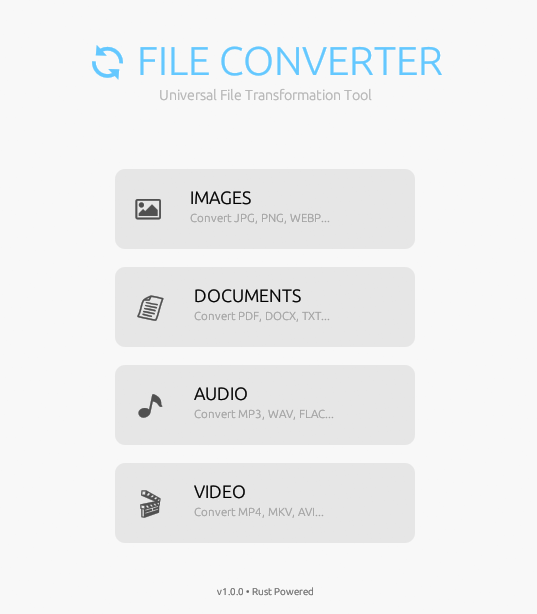
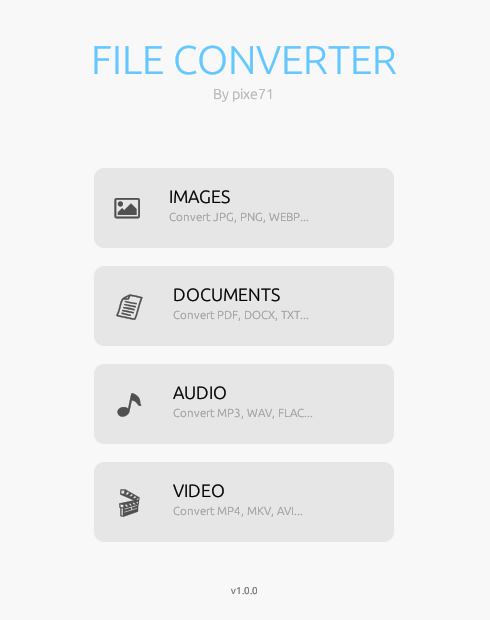
update readme + screen

diff --git a/README.md b/README.md
@@ -1,13 +1,12 @@
 # Rust File Converter
 
-<img src="icon.png" align="right" width="100px" alt="icon">
-
 A fast, secure, and universal file converter, built with **Rust** featuring a modern graphical interface.
 
 ![Rust](https://img.shields.io/badge/Made_with-Rust-orange?style=for-the-badge&logo=rust)
 ![GUI](https://img.shields.io/badge/GUI-egui-blue?style=for-the-badge)
 
 <img src="screen.png" width="300px" alt="screen">
+<img src="icon.png" align="" width="343px" alt="icon">
 
 ## Features
 
